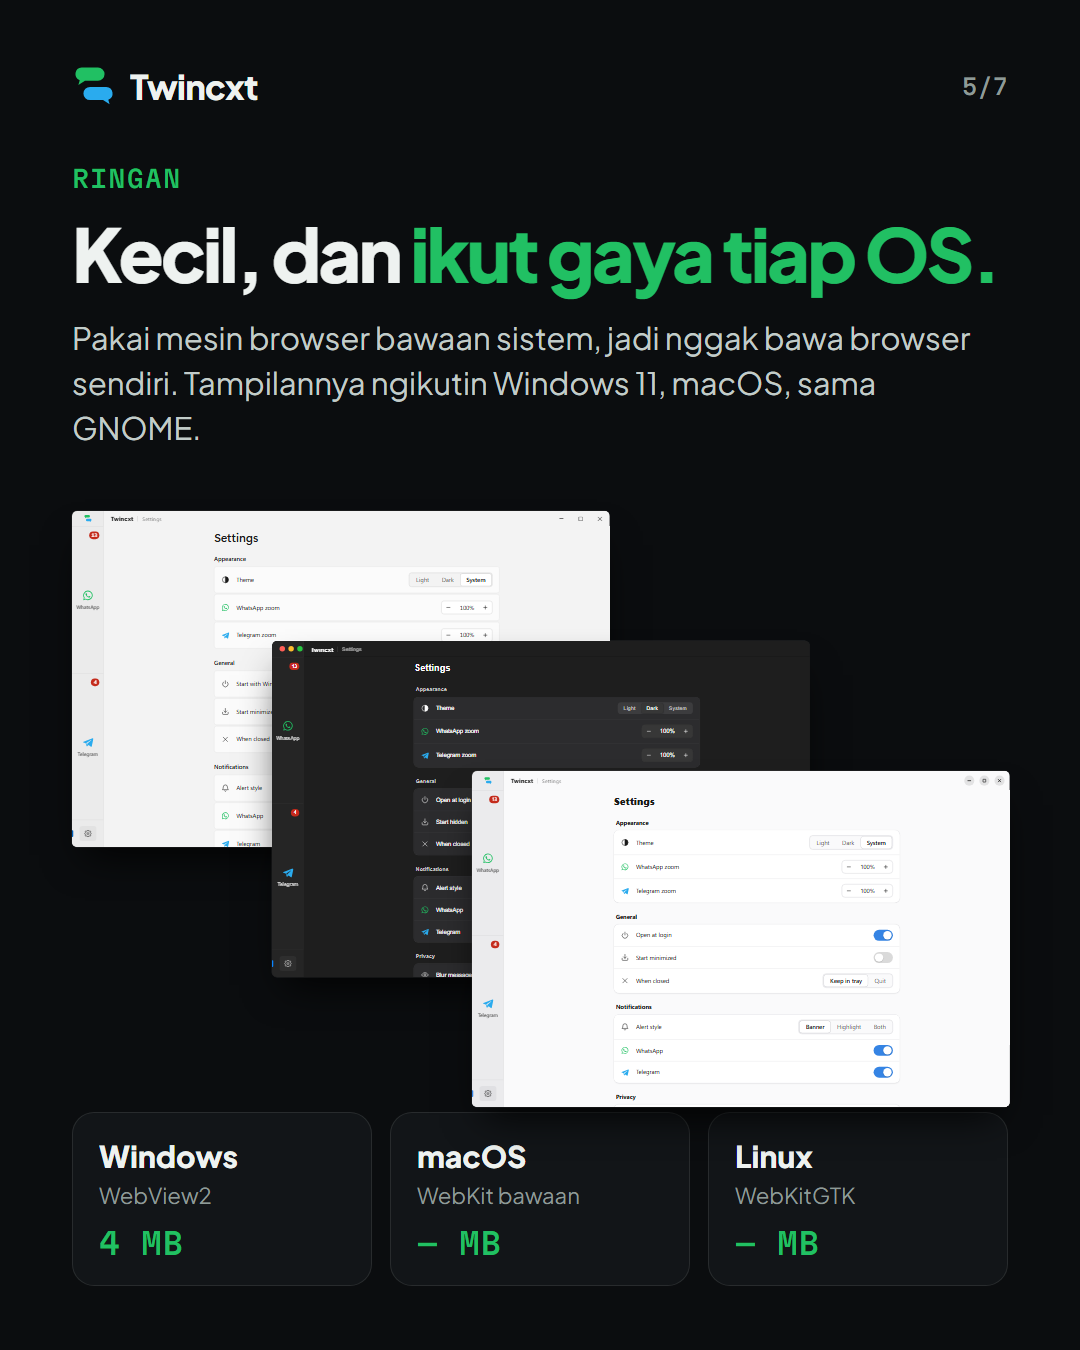
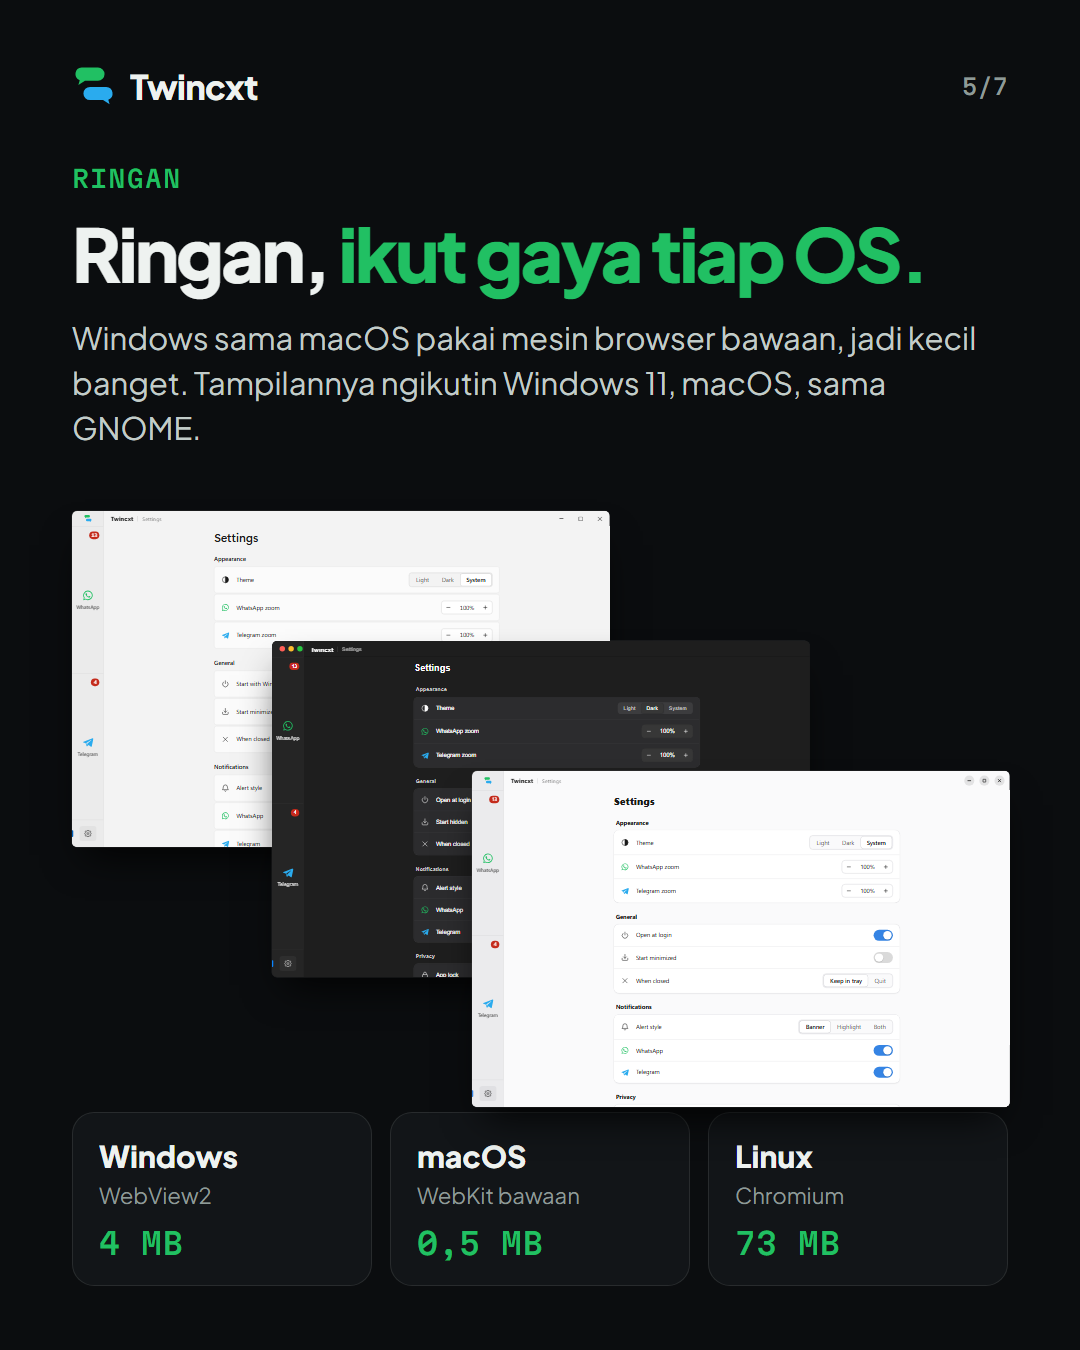
README and Threads post: native macOS, Electron Linux, privacy and app lock

Changed region(s): [[0.0611, 0.1556, 0.9167, 0.3111], [0.6722, 0.8711, 0.7944, 0.9333], [0.3667, 0.9022, 0.5194, 0.9333]]

diff --git a/promo/threads/slides.html b/promo/threads/slides.html
@@ -210,8 +210,8 @@
 <section class="slide">
   <div class="top"><span class="logo"><svg><use href="#mark"/></svg>Twincxt</span><span class="count">5/7</span></div>
   <p class="eyebrow">Ringan</p>
-  <h2>Kecil, dan <em>ikut gaya tiap OS.</em></h2>
-  <p class="sub">Pakai mesin browser bawaan sistem, jadi nggak bawa browser sendiri. Tampilannya ngikutin Windows 11, macOS, sama GNOME.</p>
+  <h2>Ringan, <em>ikut gaya tiap OS.</em></h2>
+  <p class="sub">Windows sama macOS pakai mesin browser bawaan, jadi kecil banget. Tampilannya ngikutin Windows 11, macOS, sama GNOME.</p>
   <div class="stage">
     <div class="win" data-scale="0.42" style="left:0;top:20px"><iframe src="../../ui/shell.html#settings"></iframe></div>
     <div class="win mac" data-scale="0.42" style="left:200px;top:150px"><iframe src="../../ui/shell.html#settings-mac-dark"></iframe><div class="lights"><i></i><i></i><i></i></div></div>
@@ -219,8 +219,8 @@
   </div>
   <div class="os">
     <div><b>Windows</b><span>WebView2</span><strong data-size="win">4 MB</strong></div>
-    <div><b>macOS</b><span>WebKit bawaan</span><strong data-size="mac">— MB</strong></div>
-    <div><b>Linux</b><span>WebKitGTK</span><strong data-size="linux">— MB</strong></div>
+    <div><b>macOS</b><span>WebKit bawaan</span><strong data-size="mac">0,5 MB</strong></div>
+    <div><b>Linux</b><span>Chromium</span><strong data-size="linux">73 MB</strong></div>
   </div>
 </section>
 
@@ -235,7 +235,7 @@
     Awalnya aplikasi WhatsApp Web ringan buat Windows bikinan <b>Adytm404</b>. Kredit penuh buat yang bikin.<br><br>Dari situ aku kembangin: tambah Telegram, sidebar dua bagian, blur chat, updater, terus bikin versi macOS sama Linux.
   </div>
   <p class="label">Dibikin pakai</p>
-  <div class="chips"><span>Go</span><span>WebView2</span><span>Swift</span><span>GTK</span></div>
+  <div class="chips"><span>Go</span><span>WebView2</span><span>Swift</span><span>Electron</span></div>
   <p class="foot-note">Kodenya bisa dicek siapa aja di GitHub.</p>
 </section>
 

diff --git a/README.md b/README.md
@@ -5,7 +5,8 @@ WhatsApp Web and Telegram Web in one window, for Windows, macOS and Linux.
 - **Windows**: native Go + Microsoft Edge WebView2 app (about 4 MB installer).
 - **macOS**: native Swift + AppKit + WKWebView app (one universal app for Apple
   Silicon and Intel, about 1 MB; macOS 12 or later).
-- **Linux**: Electron app (Chromium).
+- **Linux**: Electron app (Chromium). The system's WebKitGTK has no WebRTC on
+  Ubuntu, so calls need Chromium's.
 
 All three share the same interface (`ui/shell.html`) and page script
 (`ui/service.js`); the look follows each system: Windows 11, macOS
@@ -23,6 +24,10 @@ All three share the same interface (`ui/shell.html`) and page script
   `Ctrl+,` (macOS `⌘,`).
 - Settings: theme, zoom per service, open at sign-in, start hidden, close to tray,
   notifications, Telegram Web A/K, reload or sign out per service, updates.
+- Privacy: blur messages, chat previews, names, profile photos and media until
+  you point at them.
+- App lock: a PIN (stored as a PBKDF2 hash) on start or after 1, 5 or 15
+  minutes away; "Forgot PIN?" signs out of both services and removes it.
 - Built-in updater (below).
 
 ## Install
@@ -71,7 +76,7 @@ and WhatsApp and Telegram stay locked until it is installed.
 
 ## Releasing
 
-1. Set the version in `desktop/package.json` and pass it to `build.ps1`.
+1. Set the version in `VERSION` and `desktop/package.json`, and pass it to `build.ps1`.
 2. Windows (on the PC): `.\build.ps1 -Version x.y.z` → `dist\Twincxt-Setup-x.y.z.exe`
    and `dist\SHA256SUMS-windows.txt`.
 3. Push the tag `vx.y.z`: GitHub Actions builds macOS (`.github/workflows/mac.yml`)

diff --git a/promo/threads/caption.md b/promo/threads/caption.md
@@ -6,7 +6,7 @@ gambarnya; post 2 sampai 5 dibalas di bawahnya sebagai thread.
 
 Gambar dibuat dari `slides.html`. Untuk membuat ulang satu slide: buka `slides.html?n=<nomor>` di
 Edge/Chrome headless dengan ukuran jendela 1080×1350 (`--allow-file-access-from-files`). Ukuran file
-di slide 5 diisi lewat `&mac=<MB>&linux=<MB>&win=<MB>`.
+di slide 5 bisa diganti lewat `&mac=<MB>&linux=<MB>&win=<MB>`.
 
 ---
 
@@ -30,7 +30,7 @@ yang bikin aku betah pake sendiri:
 
 ## Post 3: ringan
 
-ukurannya kecil karena nggak bawa browser sendiri. Twincxt pake mesin browser bawaan tiap OS: WebView2 di Windows, WebKit di macOS, WebKitGTK di Linux
+di Windows sama macOS ukurannya kecil banget (4 MB sama 0,5 MB) karena pake mesin browser bawaan sistem. di Linux bawa Chromium sendiri biar video call tetap jalan
 
 tampilannya juga ngikutin OS-nya, gaya Windows 11, macOS, sama GNOME. update berikutnya masuk sendiri dari dalam aplikasi
 
@@ -44,7 +44,7 @@ dari situ aku kembangin: tambah Telegram, sidebar dua bagian, blur chat, updater
 
 mau coba? download di github.com/rashiiddsr/twincxt (bagian Releases, pilih sesuai OS)
 
-catatan: ini bukan aplikasi resmi WhatsApp, Meta, atau Telegram ya. di Linux, panggilan suara/video tergantung distro. nemu bug atau mau request fitur, komen aja di sini 🙌
+catatan: ini bukan aplikasi resmi WhatsApp, Meta, atau Telegram ya. nemu bug atau mau request fitur, komen aja di sini 🙌
 
 ---
 
